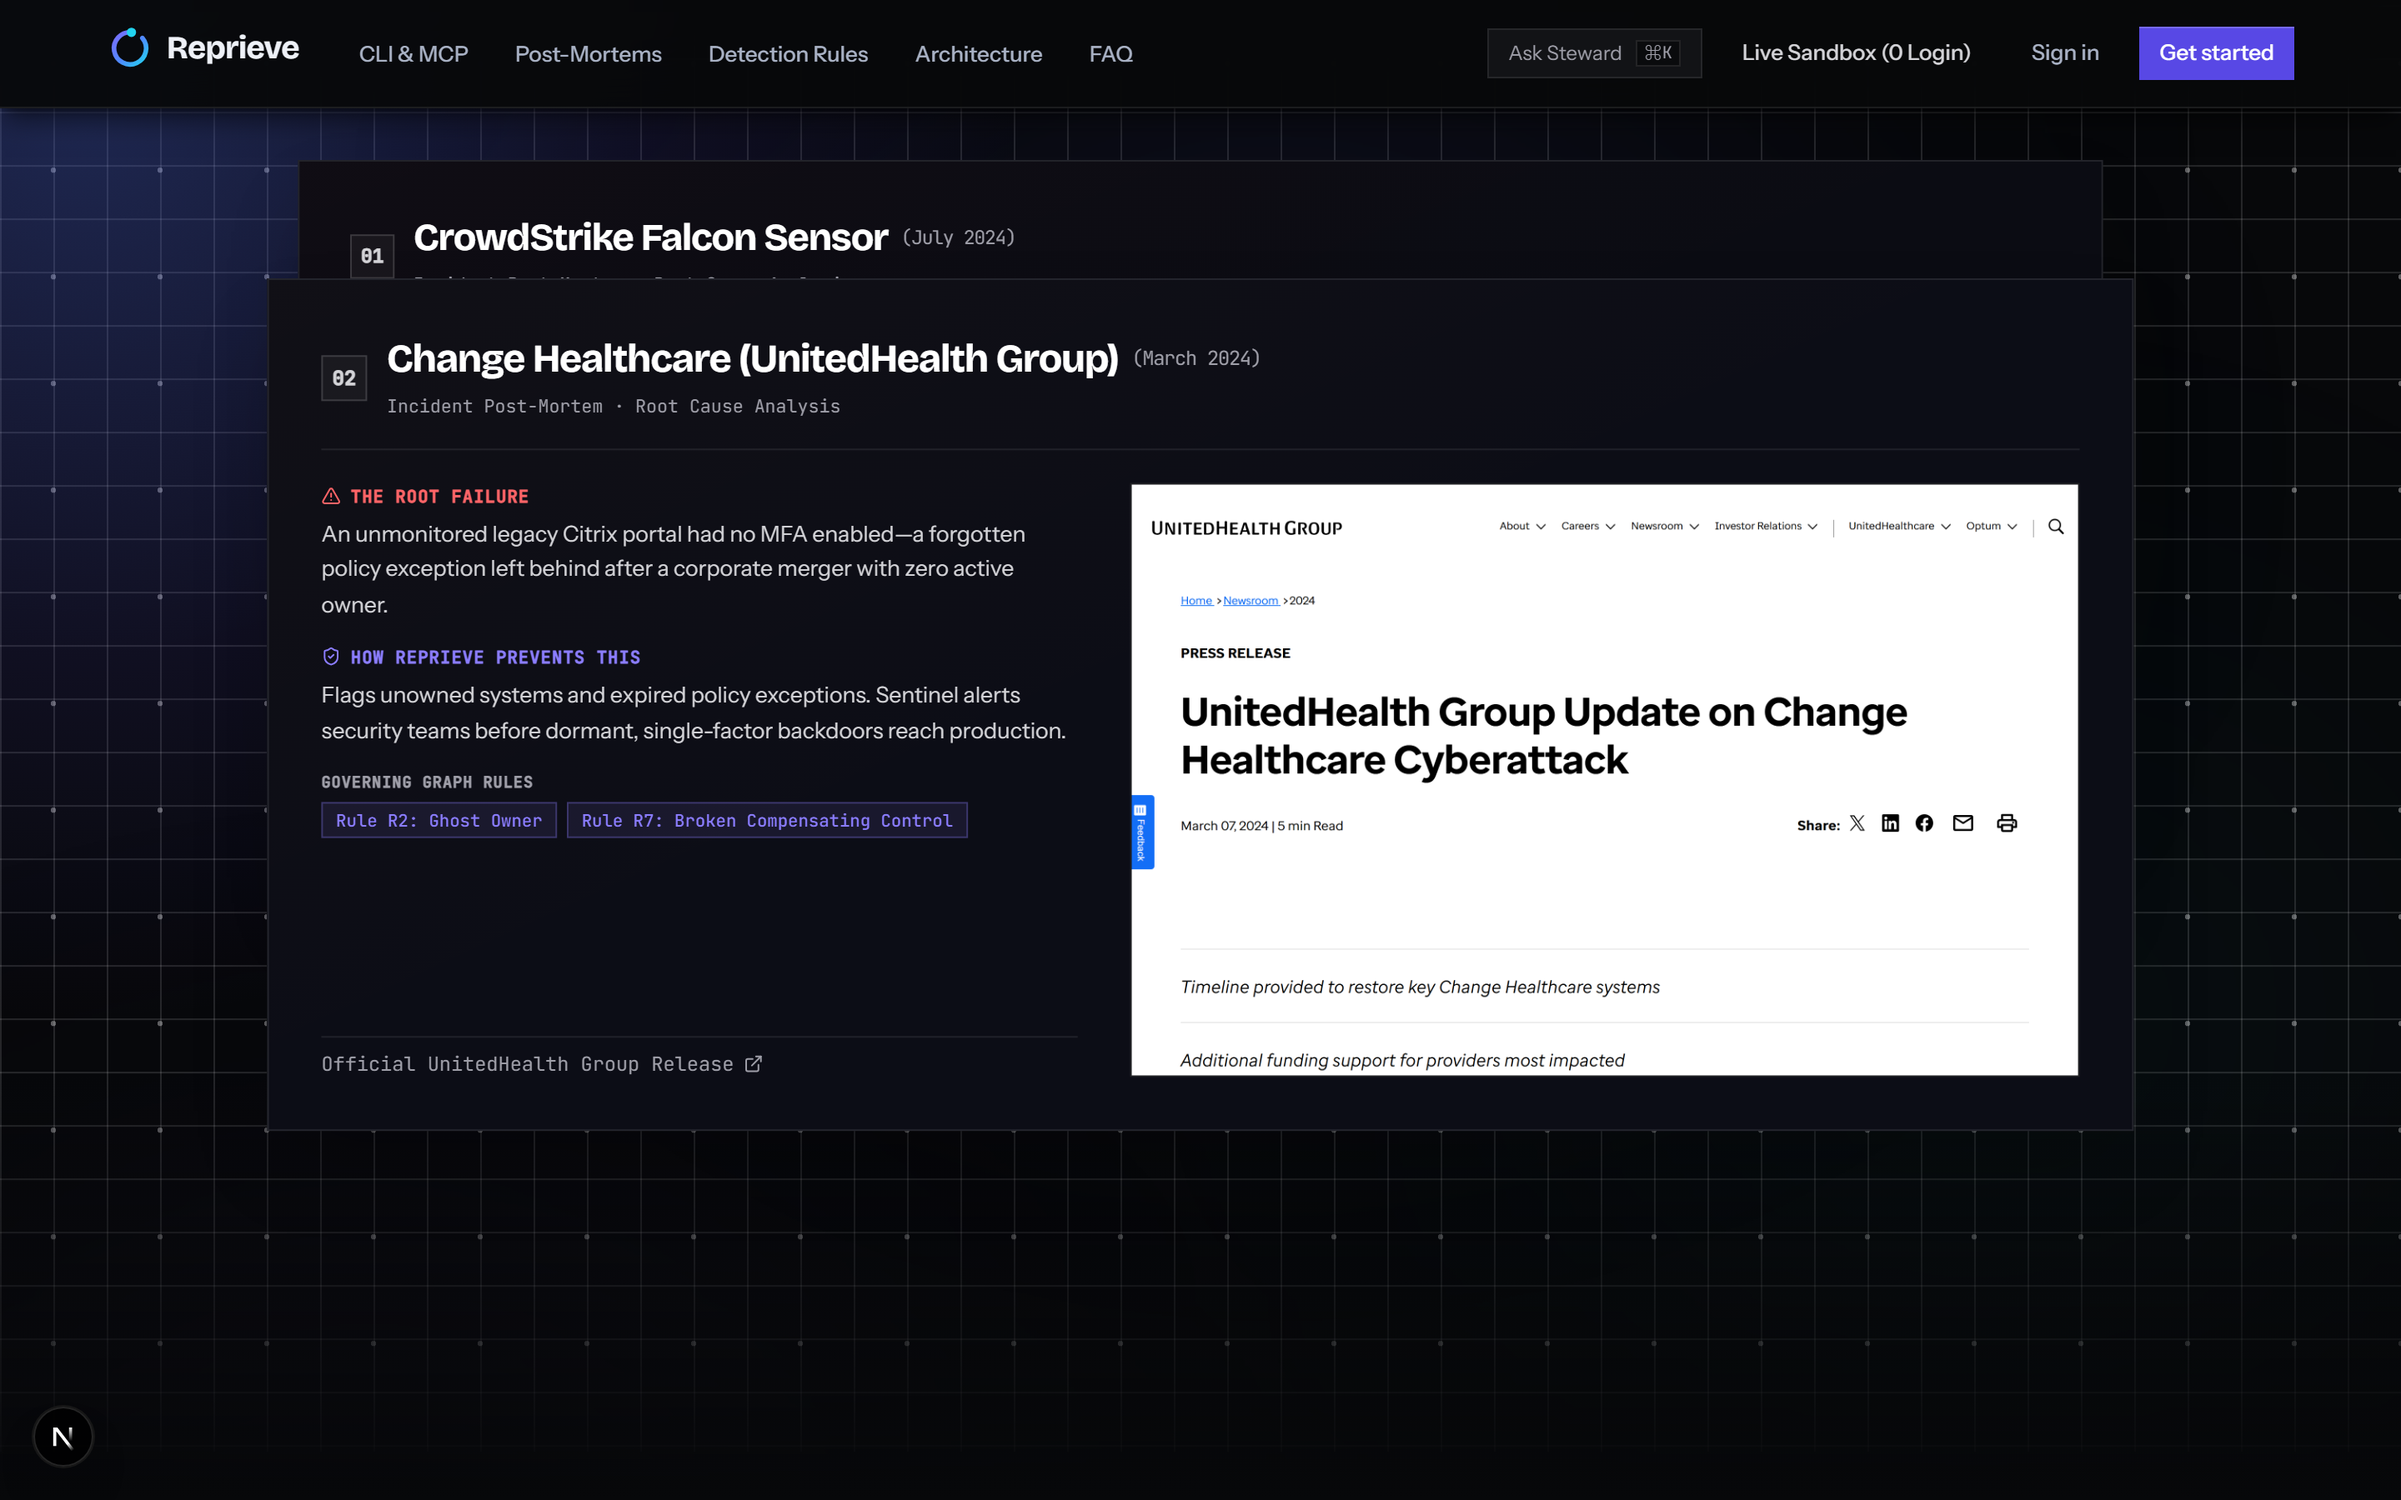
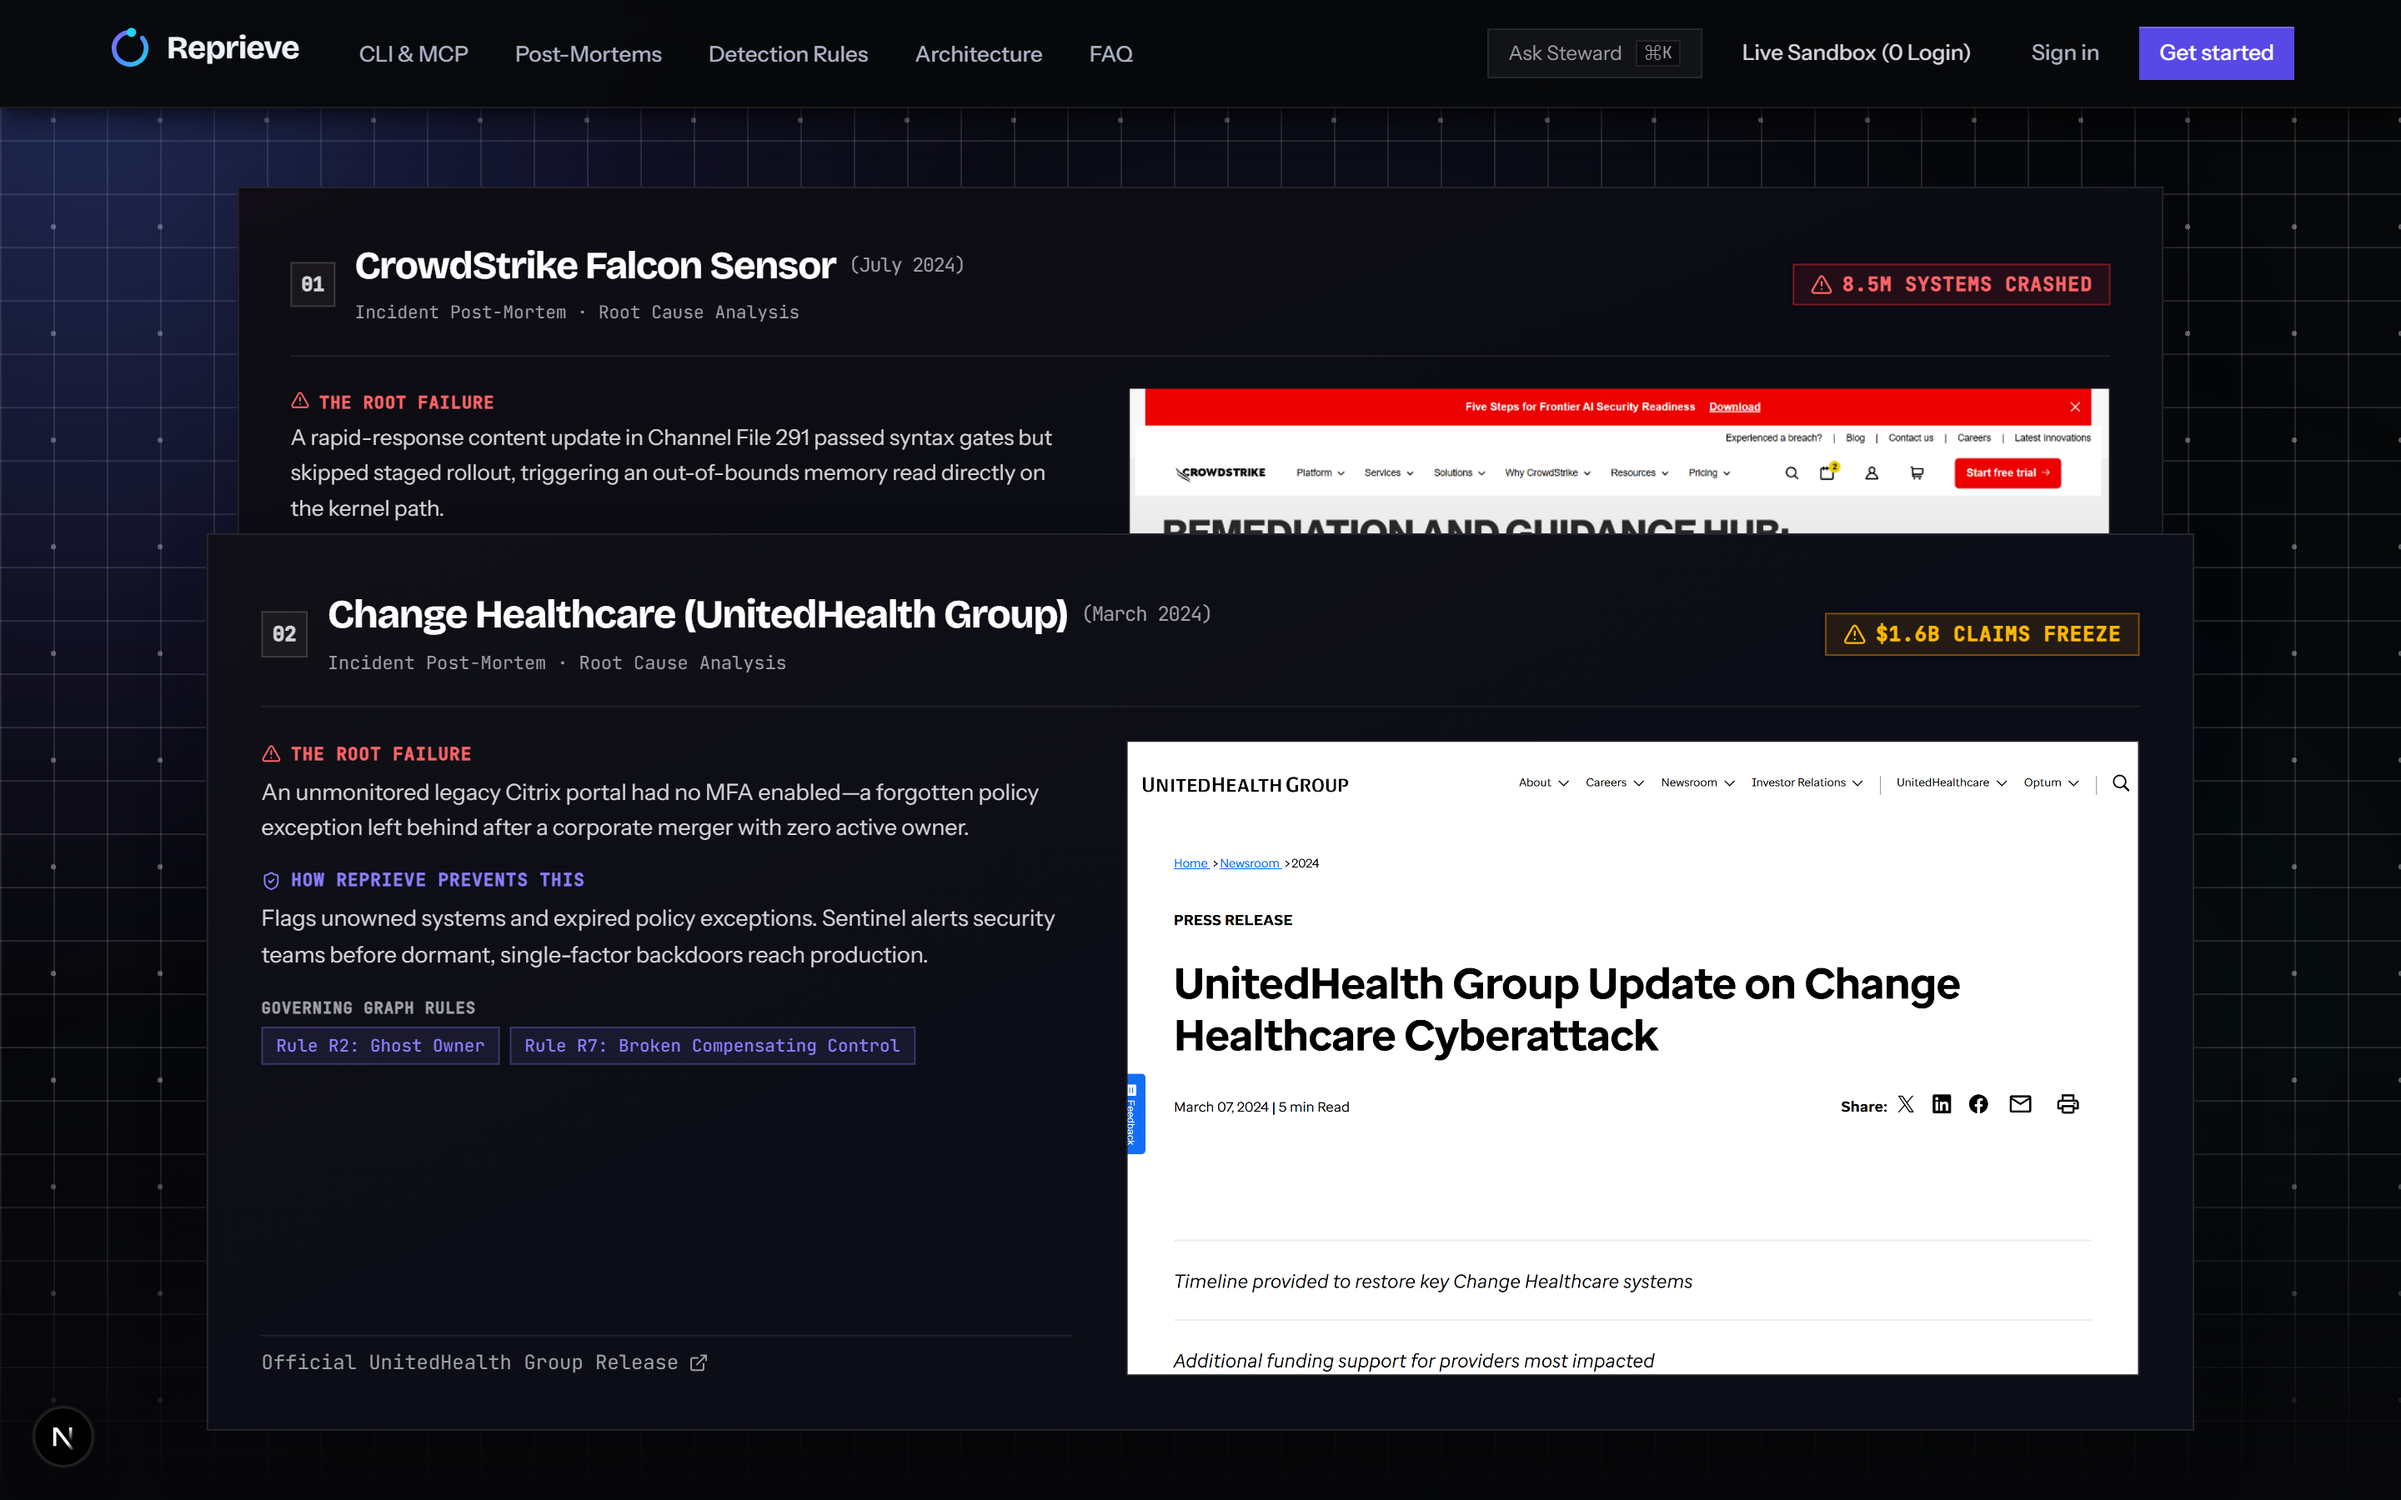
fix(marketing): restore alarmed loss badges, align width symmetry to 1280px grid, and normalize vertical section gaps

diff --git a/frontend/components/ui/stacking-card.tsx b/frontend/components/ui/stacking-card.tsx
@@ -68,16 +68,16 @@ export const Card = ({
   return (
     <div
       ref={container}
-      className="h-screen flex items-start justify-center sticky top-16 sm:top-20 lg:top-24 px-3 sm:px-6 pb-12"
+      className="sticky top-20 sm:top-24 lg:top-28 flex items-start justify-center pb-8 sm:pb-12"
     >
       <motion.div
         style={{
           backgroundColor: color,
           scale,
-          top: `${i * 22}px`,
+          top: `${i * 20}px`,
         }}
         className={cn(
-          "flex flex-col relative w-full max-w-[1140px] rounded-none p-4 sm:p-6 lg:p-8 origin-top",
+          "flex flex-col relative w-full rounded-none p-4 sm:p-6 lg:p-8 origin-top",
           "border shadow-2xl backdrop-blur-2xl transition-colors duration-300",
           project?.borderClass || "border-white/10"
         )}
@@ -115,6 +115,23 @@ export const Card = ({
                   </span>
                 </div>
               </div>
+
+              {/* Alarmed Loss / Catastrophe Impact Badge */}
+              {project?.lossFigure && (
+                <div className="flex items-center gap-2">
+                  <span
+                    className={cn(
+                      "inline-flex items-center gap-1.5 rounded-none px-2.5 py-1 font-mono text-xs font-bold uppercase tracking-wider shadow-sm",
+                      project.id === "change-healthcare"
+                        ? "border border-amber-500/40 bg-amber-500/10 text-amber-400"
+                        : "border border-red-500/40 bg-red-500/10 text-red-400"
+                    )}
+                  >
+                    <AlertTriangle className="size-3.5 shrink-0" aria-hidden="true" />
+                    <span>{project.lossFigure}</span>
+                  </span>
+                </div>
+              )}
             </div>
 
             {/* Card Body: Split Grid */}

diff --git a/frontend/scripts/test-and-screenshot.js b/frontend/scripts/test-and-screenshot.js
@@ -56,7 +56,7 @@ async function testStackingCards() {
   await page.waitForTimeout(300);
 
   // 4. Scroll down to Card 2 (Change Healthcare)
-  await page.evaluate(() => window.scrollBy({ top: 920, behavior: 'instant' }));
+  await page.evaluate(() => window.scrollBy({ top: 380, behavior: 'instant' }));
   await page.waitForTimeout(800);
   console.log('Scroll at Card 2:', await page.evaluate(() => window.scrollY));
   await page.screenshot({
@@ -65,7 +65,7 @@ async function testStackingCards() {
   console.log('Saved case-studies-desktop-card2.png');
 
   // 5. Scroll down to Card 3 (Square / Block)
-  await page.evaluate(() => window.scrollBy({ top: 920, behavior: 'instant' }));
+  await page.evaluate(() => window.scrollBy({ top: 400, behavior: 'instant' }));
   await page.waitForTimeout(800);
   console.log('Scroll at Card 3:', await page.evaluate(() => window.scrollY));
   await page.screenshot({

diff --git a/frontend/components/marketing/case-studies-section.tsx b/frontend/components/marketing/case-studies-section.tsx
@@ -80,7 +80,7 @@ export function CaseStudiesSection() {
     <section
       id="case-studies"
       aria-labelledby="case-studies-heading"
-      className="mx-auto max-w-[1280px] px-4 sm:px-8 py-16 sm:py-24"
+      className="mx-auto max-w-[1280px] px-6 sm:px-10 pt-14 pb-12 sm:pt-20 sm:pb-16"
     >
       {/* Section Header */}
       <div className="max-w-3xl space-y-2 mb-8 text-left">

diff --git a/frontend/components/ui/features-card.tsx b/frontend/components/ui/features-card.tsx
@@ -103,7 +103,7 @@ export function FeaturesCard() {
     <section
       id="developer-hub"
       aria-labelledby="features-heading"
-      className="mx-auto max-w-[1280px] px-6 py-20 sm:px-10 sm:py-32"
+      className="mx-auto max-w-[1280px] px-6 pt-12 pb-20 sm:px-10 sm:pt-16 sm:pb-32"
     >
       {/* Section Header */}
       <div className="max-w-3xl space-y-4 mb-14 text-left">
